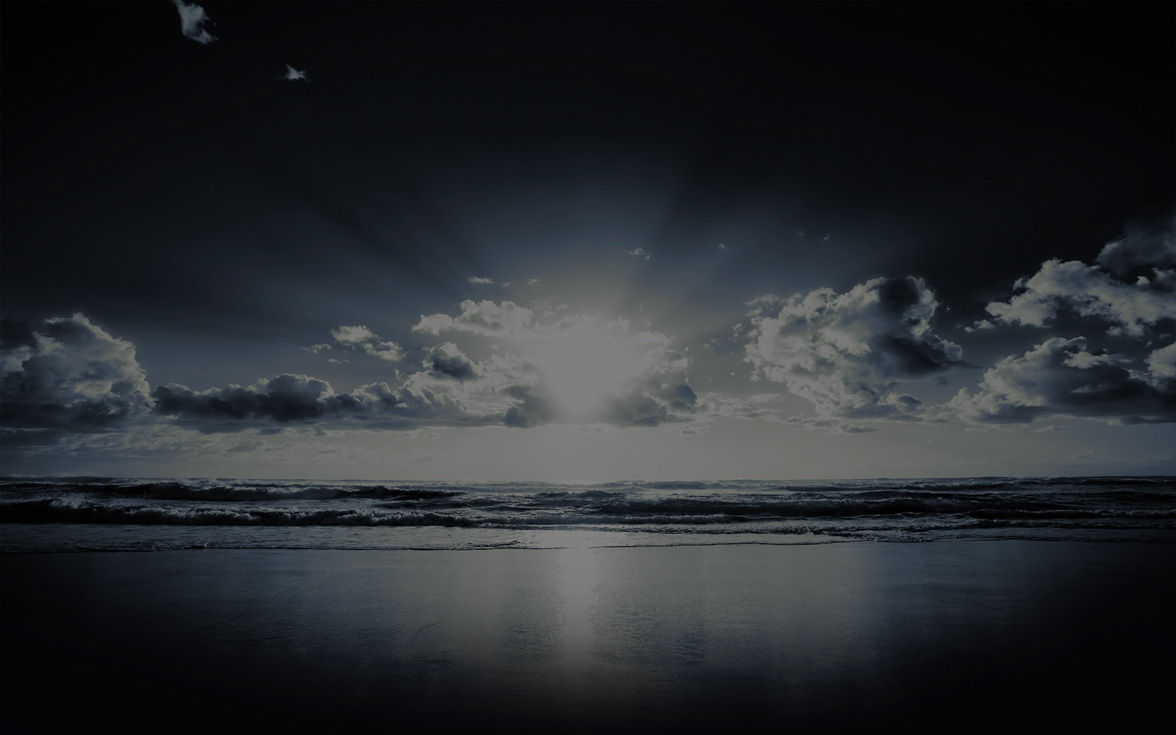
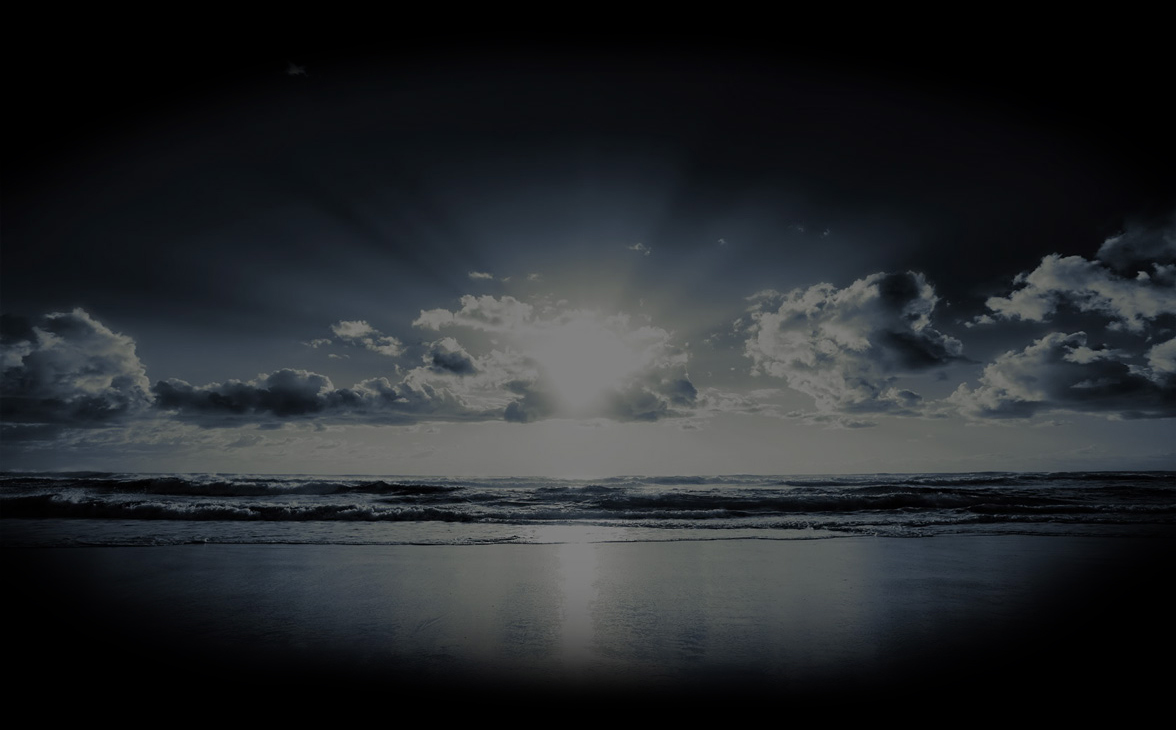
Added metadeta. Edited background image

diff --git a/contact/index.php b/contact/index.php
@@ -74,12 +74,15 @@ if ($_SERVER["REQUEST_METHOD"] == "POST") {
     <title>TravTerrell.com</title>
     <link rel="icon" type="image/png" href="../assets/images/travicon.png">
     <meta name="viewport" content="width=device-width, initial-scale=1">
+    <meta name="keywords" content="HTML,CSS,JavaScript,SQL,PHP,jQuery,DOM,Bootstrap,Web development,references,examples,source code,adobe creative suite, photoshop, illustrator">
+    <meta name="description" content="Travis Terrell - Full Stack Web Development and Graphic Design using HTML, CSS, JavaScript, jQuery, PHP, MySQL, Adobe Creative Suite, and more!">
     <script src="https://ajax.googleapis.com/ajax/libs/jquery/3.1.1/jquery.min.js"></script>
     <script src="https://maxcdn.bootstrapcdn.com/bootstrap/3.3.7/js/bootstrap.min.js"></script>
     <link rel="stylesheet" href="../styles.css">
     <link rel="stylesheet" href="https://maxcdn.bootstrapcdn.com/bootstrap/3.3.7/css/bootstrap.min.css">
     <!--[if lt IE 9]>
-      <script type="text/javascript" src="https://cdnjs.cloudflare.com/ajax/libs/html5shiv/3.7.3/html5shiv.js"></script>
+      <script src="https://oss.maxcdn.com/libs/html5shiv/3.7.0/html5shiv.js"></script>
+      <script src="https://oss.maxcdn.com/libs/respond.js/1.4.2/respond.min.js"></script>  
     <![endif]-->
   </head>
 

diff --git a/portfolio/index.php b/portfolio/index.php
@@ -5,12 +5,15 @@
     <title>TravTerrell.com</title>
     <link rel="icon" type="image/png" href="../../assets/images/travicon.png">
     <meta name="viewport" content="width=device-width, initial-scale=1">
+    <meta name="keywords" content="HTML,CSS,JavaScript,SQL,PHP,jQuery,DOM,Bootstrap,Web development,references,examples,source code,adobe creative suite, photoshop, illustrator">
+    <meta name="description" content="Travis Terrell - Full Stack Web Development and Graphic Design using HTML, CSS, JavaScript, jQuery, PHP, MySQL, Adobe Creative Suite, and more!">
     <script src="https://ajax.googleapis.com/ajax/libs/jquery/3.1.1/jquery.min.js"></script>
     <script src="https://maxcdn.bootstrapcdn.com/bootstrap/3.3.7/js/bootstrap.min.js"></script>
     <link rel="stylesheet" href="../styles.css">
     <link rel="stylesheet" href="https://maxcdn.bootstrapcdn.com/bootstrap/3.3.7/css/bootstrap.min.css">
     <!--[if lt IE 9]>
-      <script type="text/javascript" src="https://cdnjs.cloudflare.com/ajax/libs/html5shiv/3.7.3/html5shiv.js"></script>
+      <script src="https://oss.maxcdn.com/libs/html5shiv/3.7.0/html5shiv.js"></script>
+      <script src="https://oss.maxcdn.com/libs/respond.js/1.4.2/respond.min.js"></script>  
     <![endif]-->
   </head>
 

diff --git a/about/index.php b/about/index.php
@@ -5,12 +5,15 @@
     <title>TravTerrell.com</title>
     <link rel="icon" type="image/png" href="../assets/images/travicon.png">
     <meta name="viewport" content="width=device-width, initial-scale=1">
+    <meta name="keywords" content="HTML,CSS,JavaScript,SQL,PHP,jQuery,DOM,Bootstrap,Web development,references,examples,source code,adobe creative suite, photoshop, illustrator">
+    <meta name="description" content="Travis Terrell - Full Stack Web Development and Graphic Design using HTML, CSS, JavaScript, jQuery, PHP, MySQL, Adobe Creative Suite, and more!">
     <script src="https://ajax.googleapis.com/ajax/libs/jquery/3.1.1/jquery.min.js"></script>
     <script src="https://maxcdn.bootstrapcdn.com/bootstrap/3.3.7/js/bootstrap.min.js"></script>
     <link rel="stylesheet" href="../styles.css">
     <link rel="stylesheet" href="https://maxcdn.bootstrapcdn.com/bootstrap/3.3.7/css/bootstrap.min.css">
     <!--[if lt IE 9]>
-      <script type="text/javascript" src="https://cdnjs.cloudflare.com/ajax/libs/html5shiv/3.7.3/html5shiv.js"></script>
+      <script src="https://oss.maxcdn.com/libs/html5shiv/3.7.0/html5shiv.js"></script>
+      <script src="https://oss.maxcdn.com/libs/respond.js/1.4.2/respond.min.js"></script>  
     <![endif]-->
   </head>
 

diff --git a/index.php b/index.php
@@ -5,12 +5,15 @@
     <link rel="icon" type="image/png" href="assets/images/travicon.png">
     <title>TravTerrell.com</title>
     <meta name="viewport" content="width=device-width, initial-scale=1">
+    <meta name="keywords" content="HTML,CSS,JavaScript,SQL,PHP,jQuery,DOM,Bootstrap,Web development,references,examples,source code,adobe creative suite, photoshop, illustrator">
+    <meta name="description" content="Travis Terrell - Full Stack Web Development and Graphic Design using HTML, CSS, JavaScript, jQuery, PHP, MySQL, Adobe Creative Suite, and more!">
     <script src="https://ajax.googleapis.com/ajax/libs/jquery/3.1.1/jquery.min.js"></script>
     <script src="https://maxcdn.bootstrapcdn.com/bootstrap/3.3.7/js/bootstrap.min.js"></script>
     <link rel="stylesheet" href="styles.css">
     <link rel="stylesheet" href="https://maxcdn.bootstrapcdn.com/bootstrap/3.3.7/css/bootstrap.min.css">
     <!--[if lt IE 9]>
-      <script type="text/javascript" src="https://cdnjs.cloudflare.com/ajax/libs/html5shiv/3.7.3/html5shiv.js"></script>
+      <script src="https://oss.maxcdn.com/libs/html5shiv/3.7.0/html5shiv.js"></script>
+      <script src="https://oss.maxcdn.com/libs/respond.js/1.4.2/respond.min.js"></script>  
     <![endif]-->
   </head>
 
